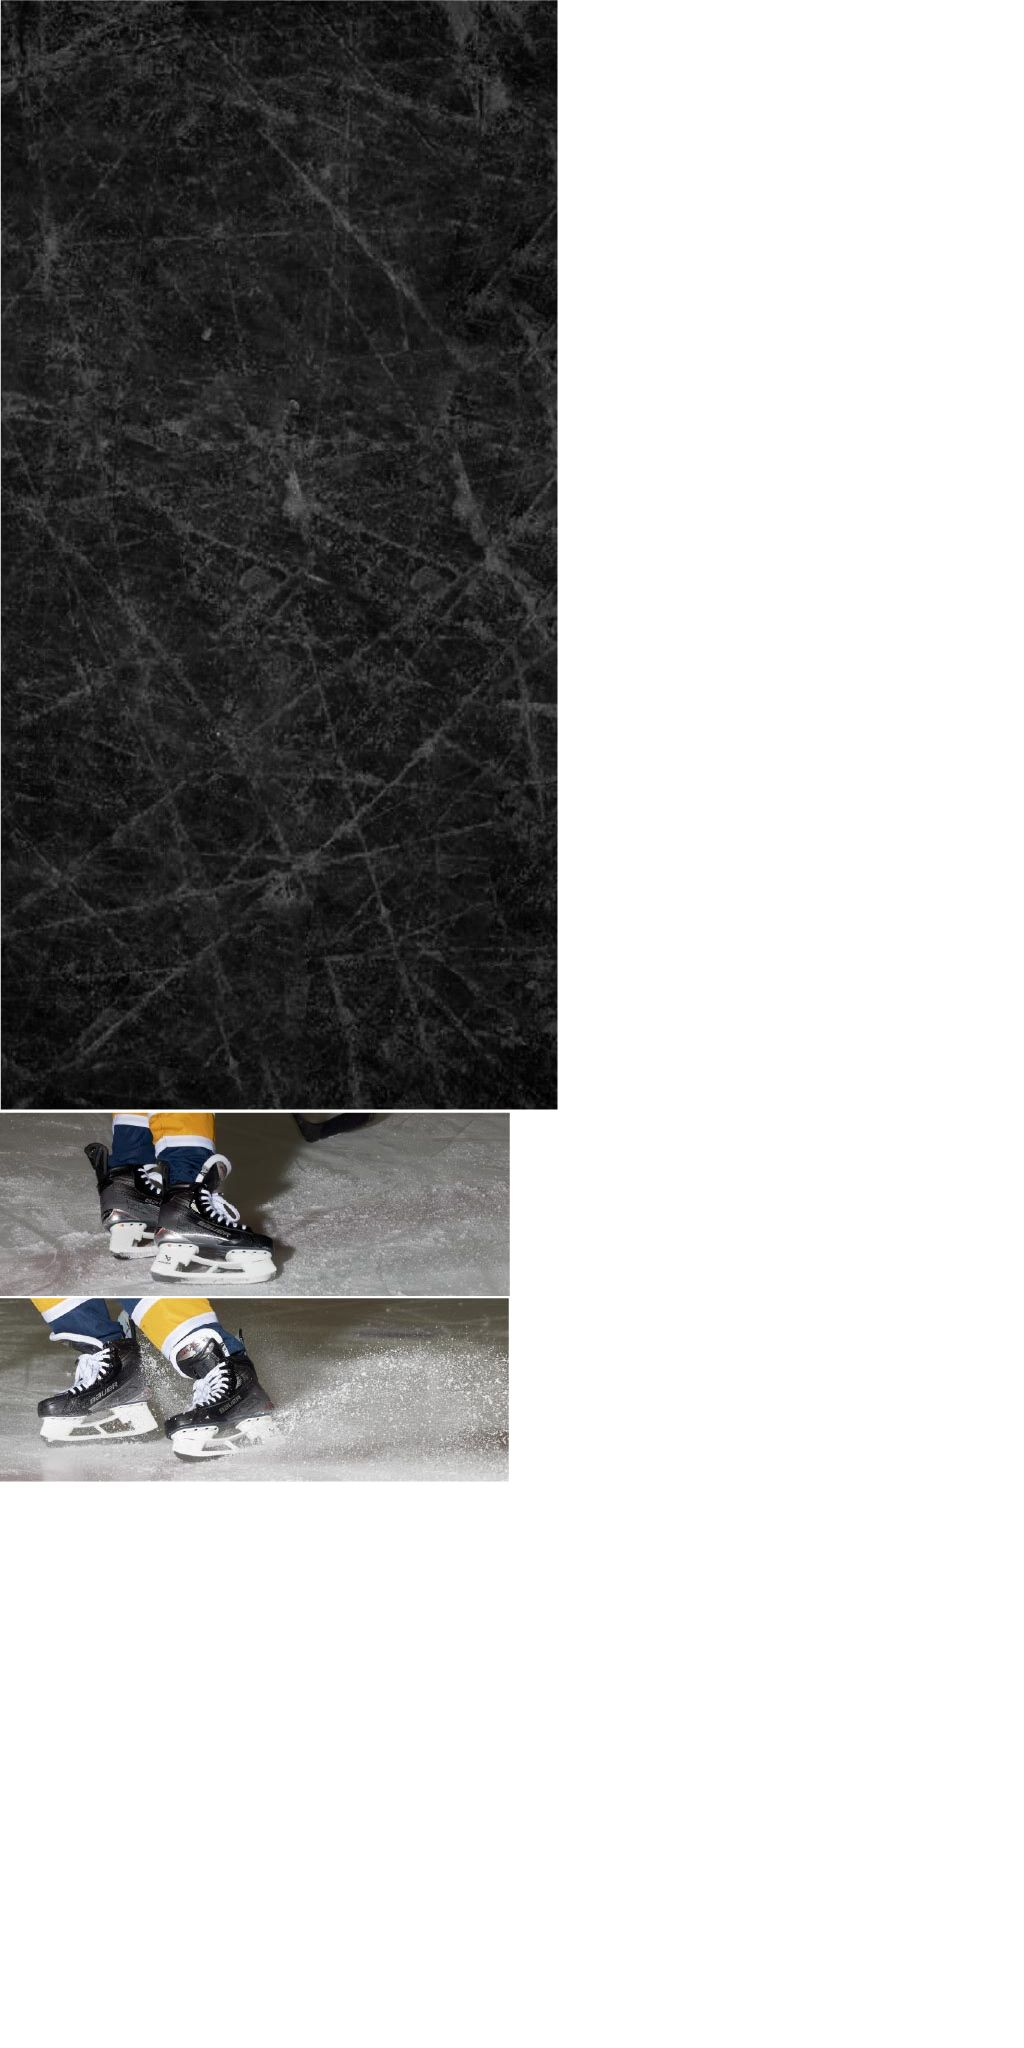
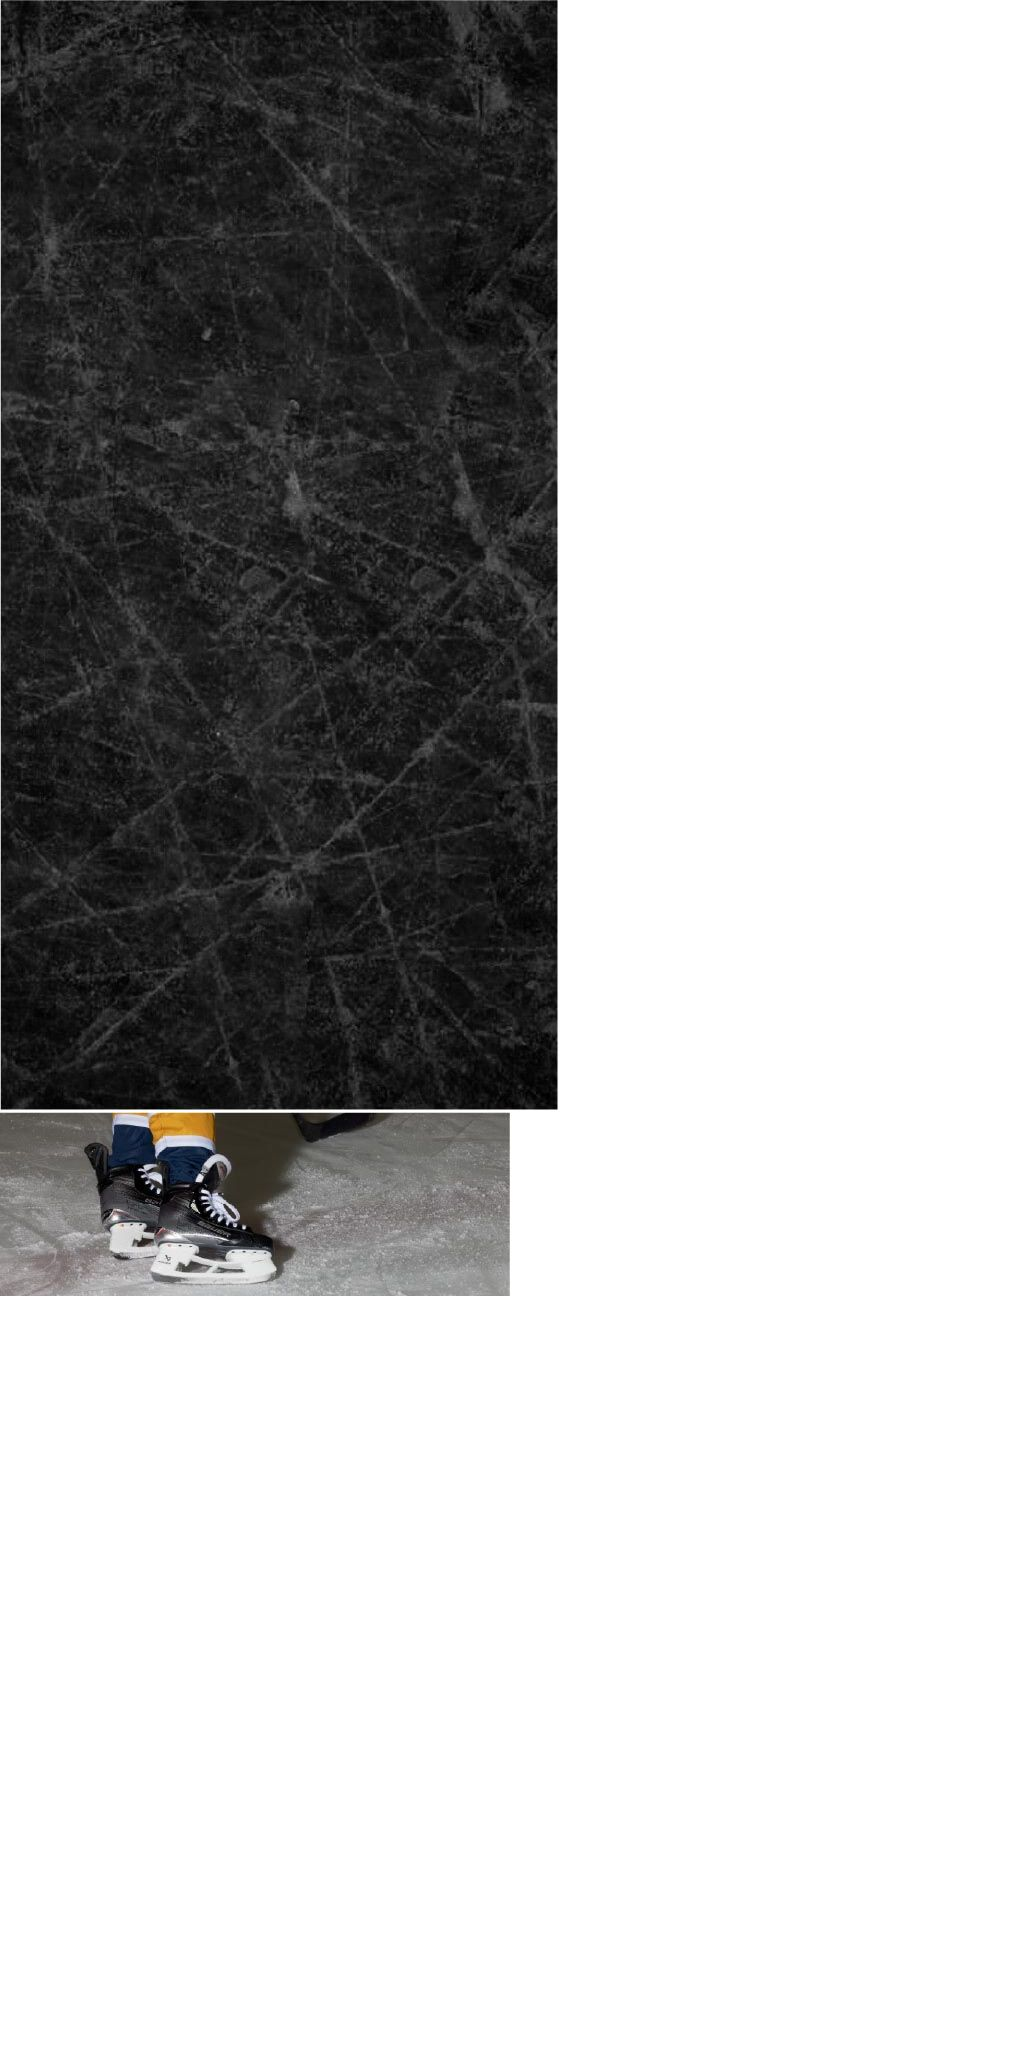
728 updates

Changed region(s): [[0.0, 0.625, 0.5, 0.75]]

diff --git a/SFS_2023/shift_728x90_us/shift_728x90_us.js b/SFS_2023/shift_728x90_us/shift_728x90_us.js
@@ -3,7 +3,7 @@
 var p; // shortcut to reference prototypes
 var lib={};var ss={};var img={};
 lib.ssMetadata = [
-		{name:"shift_728x90_us_atlas_1", frames: [[0,0,558,1110],[0,1112,510,184],[0,1298,509,184]]}
+		{name:"shift_728x90_us_atlas_1", frames: [[0,0,558,1110],[0,1112,510,184]]}
 ];
 
 
@@ -37,13 +37,6 @@ lib.ssMetadata = [
 (lib.Asset2pngcopy = function() {
 	this.initialize(ss["shift_728x90_us_atlas_1"]);
 	this.gotoAndStop(1);
-}).prototype = p = new cjs.Sprite();
-
-
-
-(lib.Asset3 = function() {
-	this.initialize(ss["shift_728x90_us_atlas_1"]);
-	this.gotoAndStop(2);
 }).prototype = p = new cjs.Sprite();
 // helper functions:
 
@@ -240,28 +233,6 @@ if (reversed == null) { reversed = false; }
 	this._renderFirstFrame();
 
 }).prototype = getMCSymbolPrototype(lib.text1, new cjs.Rectangle(-1.2,-210.3,221.39999999999998,27), null);
-
-
-(lib.skate2 = function(mode,startPosition,loop,reversed) {
-if (loop == null) { loop = true; }
-if (reversed == null) { reversed = false; }
-	var props = new Object();
-	props.mode = mode;
-	props.startPosition = startPosition;
-	props.labels = {};
-	props.loop = loop;
-	props.reversed = reversed;
-	cjs.MovieClip.apply(this,[props]);
-
-	// Layer_1
-	this.instance = new lib.Asset3();
-	this.instance.setTransform(-28,-302,0.4527,0.4527);
-
-	this.timeline.addTween(cjs.Tween.get(this.instance).wait(1));
-
-	this._renderFirstFrame();
-
-}).prototype = getMCSymbolPrototype(lib.skate2, new cjs.Rectangle(-28,-302,230.4,83.30000000000001), null);
 
 
 (lib.skate1 = function(mode,startPosition,loop,reversed) {
@@ -720,58 +691,51 @@ if (reversed == null) { reversed = false; }
 
 	this.timeline.addTween(cjs.Tween.get(this.instance_2).wait(256).to({_off:false},0).to({alpha:1},29,cjs.Ease.quartInOut).wait(58));
 
-	// skate2
-	this.instance_3 = new lib.skate2();
-	this.instance_3.setTransform(724.05,406.25,1.12,1.12,0,0,0,57,62);
+	// skate1
+	this.instance_3 = new lib.skate1();
+	this.instance_3.setTransform(613.05,401.85,1.12,1.12,0,0,0,56.1,61.5);
 	this.instance_3._off = true;
 
-	this.timeline.addTween(cjs.Tween.get(this.instance_3).wait(166).to({_off:false},0).to({x:564.4},20,cjs.Ease.quartOut).wait(57).to({x:827.15},18,cjs.Ease.quintInOut).wait(82));
-
-	// skate1
-	this.instance_4 = new lib.skate1();
-	this.instance_4.setTransform(613.05,401.85,1.12,1.12,0,0,0,56.1,61.5);
-	this.instance_4._off = true;
-
-	this.timeline.addTween(cjs.Tween.get(this.instance_4).wait(23).to({_off:false},0).to({x:350.55},25,cjs.Ease.quartOut).to({_off:true},139).wait(156));
+	this.timeline.addTween(cjs.Tween.get(this.instance_3).wait(23).to({_off:false},0).to({x:350.55},25,cjs.Ease.quartOut).wait(195).to({x:620.55},18,cjs.Ease.quintInOut).wait(82));
 
 	// Ctet2
-	this.instance_5 = new lib.Ctext2();
-	this.instance_5.setTransform(-167.9,282.9,1.12,1.12,0,0,0,74.7,24);
-	this.instance_5._off = true;
+	this.instance_4 = new lib.Ctext2();
+	this.instance_4.setTransform(-167.9,282.9,1.12,1.12,0,0,0,74.7,24);
+	this.instance_4._off = true;
 
-	this.timeline.addTween(cjs.Tween.get(this.instance_5).wait(154).to({_off:false},0).to({regX:74.8,x:106.15},22,cjs.Ease.quartOut).wait(65).to({alpha:0},17,cjs.Ease.quartInOut).to({_off:true},1).wait(84));
+	this.timeline.addTween(cjs.Tween.get(this.instance_4).wait(154).to({_off:false},0).to({regX:74.8,x:106.15},22,cjs.Ease.quartOut).wait(65).to({alpha:0},17,cjs.Ease.quartInOut).to({_off:true},1).wait(84));
 
 	// Ctext1
-	this.instance_6 = new lib.Ctext1();
-	this.instance_6.setTransform(-132.9,282.9,1.12,1.12,0,0,0,74.7,24);
-	this.instance_6._off = true;
+	this.instance_5 = new lib.Ctext1();
+	this.instance_5.setTransform(-132.9,282.9,1.12,1.12,0,0,0,74.7,24);
+	this.instance_5._off = true;
 
-	this.timeline.addTween(cjs.Tween.get(this.instance_6).wait(151).to({_off:false},0).to({regX:74.8,x:106.15},22,cjs.Ease.quartOut).wait(65).to({alpha:0},17,cjs.Ease.quartInOut).to({_off:true},1).wait(87));
+	this.timeline.addTween(cjs.Tween.get(this.instance_5).wait(151).to({_off:false},0).to({regX:74.8,x:106.15},22,cjs.Ease.quartOut).wait(65).to({alpha:0},17,cjs.Ease.quartInOut).to({_off:true},1).wait(87));
 
 	// text2
-	this.instance_7 = new lib.Tween2("synched",0);
-	this.instance_7.setTransform(-158.95,366.45,1.12,1.12);
-	this.instance_7._off = true;
+	this.instance_6 = new lib.Tween2("synched",0);
+	this.instance_6.setTransform(-158.95,366.45,1.12,1.12);
+	this.instance_6._off = true;
 
-	this.timeline.addTween(cjs.Tween.get(this.instance_7).wait(9).to({_off:false},0).to({x:123.25},21,cjs.Ease.quartOut).wait(95).to({startPosition:0},0).to({alpha:0},17,cjs.Ease.quartInOut).to({_off:true},1).wait(200));
+	this.timeline.addTween(cjs.Tween.get(this.instance_6).wait(9).to({_off:false},0).to({x:123.25},21,cjs.Ease.quartOut).wait(95).to({startPosition:0},0).to({alpha:0},17,cjs.Ease.quartInOut).to({_off:true},1).wait(200));
 
 	// text1
-	this.instance_8 = new lib.text1();
-	this.instance_8.setTransform(-206.95,282.9,1.12,1.12,0,0,0,74.8,24);
-	this.instance_8._off = true;
+	this.instance_7 = new lib.text1();
+	this.instance_7.setTransform(-206.95,282.9,1.12,1.12,0,0,0,74.8,24);
+	this.instance_7._off = true;
 
-	this.timeline.addTween(cjs.Tween.get(this.instance_8).wait(5).to({_off:false},0).to({x:106.15},21,cjs.Ease.quartOut).wait(96).to({alpha:0},17,cjs.Ease.quartInOut).to({_off:true},4).wait(200));
+	this.timeline.addTween(cjs.Tween.get(this.instance_7).wait(5).to({_off:false},0).to({x:106.15},21,cjs.Ease.quartOut).wait(96).to({alpha:0},17,cjs.Ease.quartInOut).to({_off:true},4).wait(200));
 
 	// bg
-	this.instance_9 = new lib.Asset1();
-	this.instance_9.setTransform(728,0,0.6198,0.6558,90);
+	this.instance_8 = new lib.Asset1();
+	this.instance_8.setTransform(728,0,0.6198,0.6558,90);
 
-	this.timeline.addTween(cjs.Tween.get(this.instance_9).wait(343));
+	this.timeline.addTween(cjs.Tween.get(this.instance_8).wait(343));
 
 	this._renderFirstFrame();
 
 }).prototype = p = new lib.AnMovieClip();
-p.nominalBounds = new cjs.Rectangle(71.9,43.1,918.8000000000001,302.79999999999995);
+p.nominalBounds = new cjs.Rectangle(71.9,43.1,926.3000000000001,302.79999999999995);
 // library properties:
 lib.properties = {
 	id: '758E0282264D47629A39BAD509FAEF4B',

diff --git a/SFS_2023/shift_728x90_en/shift_728x90_en.js b/SFS_2023/shift_728x90_en/shift_728x90_en.js
@@ -3,7 +3,7 @@
 var p; // shortcut to reference prototypes
 var lib={};var ss={};var img={};
 lib.ssMetadata = [
-		{name:"shift_728x90_en_atlas_1", frames: [[0,0,558,1110],[0,1112,510,184],[0,1298,509,184]]}
+		{name:"shift_728x90_en_atlas_1", frames: [[0,0,558,1110],[0,1112,510,184]]}
 ];
 
 
@@ -37,13 +37,6 @@ lib.ssMetadata = [
 (lib.Asset2pngcopy = function() {
 	this.initialize(ss["shift_728x90_en_atlas_1"]);
 	this.gotoAndStop(1);
-}).prototype = p = new cjs.Sprite();
-
-
-
-(lib.Asset3 = function() {
-	this.initialize(ss["shift_728x90_en_atlas_1"]);
-	this.gotoAndStop(2);
 }).prototype = p = new cjs.Sprite();
 // helper functions:
 
@@ -240,28 +233,6 @@ if (reversed == null) { reversed = false; }
 	this._renderFirstFrame();
 
 }).prototype = getMCSymbolPrototype(lib.text1, new cjs.Rectangle(-1.2,-210.3,221.39999999999998,27), null);
-
-
-(lib.skate2 = function(mode,startPosition,loop,reversed) {
-if (loop == null) { loop = true; }
-if (reversed == null) { reversed = false; }
-	var props = new Object();
-	props.mode = mode;
-	props.startPosition = startPosition;
-	props.labels = {};
-	props.loop = loop;
-	props.reversed = reversed;
-	cjs.MovieClip.apply(this,[props]);
-
-	// Layer_1
-	this.instance = new lib.Asset3();
-	this.instance.setTransform(-28,-302,0.4527,0.4527);
-
-	this.timeline.addTween(cjs.Tween.get(this.instance).wait(1));
-
-	this._renderFirstFrame();
-
-}).prototype = getMCSymbolPrototype(lib.skate2, new cjs.Rectangle(-28,-302,230.5,83.30000000000001), null);
 
 
 (lib.skate1 = function(mode,startPosition,loop,reversed) {
@@ -754,53 +725,46 @@ if (reversed == null) { reversed = false; }
 
 	this.timeline.addTween(cjs.Tween.get(this.instance_2).wait(256).to({_off:false},0).to({alpha:1},29,cjs.Ease.quartInOut).wait(58));
 
-	// skate2
-	this.instance_3 = new lib.skate2();
-	this.instance_3.setTransform(724.05,406.25,1.12,1.12,0,0,0,57,62);
+	// skate1
+	this.instance_3 = new lib.skate1();
+	this.instance_3.setTransform(613.05,401.85,1.12,1.12,0,0,0,56.1,61.5);
 	this.instance_3._off = true;
 
-	this.timeline.addTween(cjs.Tween.get(this.instance_3).wait(166).to({_off:false},0).to({x:564.4},20,cjs.Ease.quartOut).wait(57).to({x:827.15},18,cjs.Ease.quintInOut).wait(82));
-
-	// skate1
-	this.instance_4 = new lib.skate1();
-	this.instance_4.setTransform(613.05,401.85,1.12,1.12,0,0,0,56.1,61.5);
-	this.instance_4._off = true;
-
-	this.timeline.addTween(cjs.Tween.get(this.instance_4).wait(23).to({_off:false},0).to({x:350.55},25,cjs.Ease.quartOut).to({_off:true},139).wait(156));
+	this.timeline.addTween(cjs.Tween.get(this.instance_3).wait(23).to({_off:false},0).to({x:350.55},25,cjs.Ease.quartOut).wait(195).to({x:611.55},18,cjs.Ease.quintInOut).wait(82));
 
 	// Ctet2
-	this.instance_5 = new lib.Ctext2();
-	this.instance_5.setTransform(-167.9,282.9,1.12,1.12,0,0,0,74.7,24);
-	this.instance_5._off = true;
+	this.instance_4 = new lib.Ctext2();
+	this.instance_4.setTransform(-167.9,282.9,1.12,1.12,0,0,0,74.7,24);
+	this.instance_4._off = true;
 
-	this.timeline.addTween(cjs.Tween.get(this.instance_5).wait(154).to({_off:false},0).to({regX:74.8,x:106.15},22,cjs.Ease.quartOut).wait(65).to({alpha:0},17,cjs.Ease.quartInOut).to({_off:true},1).wait(84));
+	this.timeline.addTween(cjs.Tween.get(this.instance_4).wait(154).to({_off:false},0).to({regX:74.8,x:106.15},22,cjs.Ease.quartOut).wait(65).to({alpha:0},17,cjs.Ease.quartInOut).to({_off:true},1).wait(84));
 
 	// Ctext1
-	this.instance_6 = new lib.Ctext1();
-	this.instance_6.setTransform(-132.9,282.9,1.12,1.12,0,0,0,74.7,24);
-	this.instance_6._off = true;
+	this.instance_5 = new lib.Ctext1();
+	this.instance_5.setTransform(-132.9,282.9,1.12,1.12,0,0,0,74.7,24);
+	this.instance_5._off = true;
 
-	this.timeline.addTween(cjs.Tween.get(this.instance_6).wait(151).to({_off:false},0).to({regX:74.8,x:106.15},22,cjs.Ease.quartOut).wait(65).to({alpha:0},17,cjs.Ease.quartInOut).to({_off:true},1).wait(87));
+	this.timeline.addTween(cjs.Tween.get(this.instance_5).wait(151).to({_off:false},0).to({regX:74.8,x:106.15},22,cjs.Ease.quartOut).wait(65).to({alpha:0},17,cjs.Ease.quartInOut).to({_off:true},1).wait(87));
 
 	// text2
-	this.instance_7 = new lib.Tween2("synched",0);
-	this.instance_7.setTransform(-158.95,366.45,1.12,1.12);
-	this.instance_7._off = true;
+	this.instance_6 = new lib.Tween2("synched",0);
+	this.instance_6.setTransform(-158.95,366.45,1.12,1.12);
+	this.instance_6._off = true;
 
-	this.timeline.addTween(cjs.Tween.get(this.instance_7).wait(9).to({_off:false},0).to({x:123.25},21,cjs.Ease.quartOut).wait(95).to({startPosition:0},0).to({alpha:0},17,cjs.Ease.quartInOut).to({_off:true},1).wait(200));
+	this.timeline.addTween(cjs.Tween.get(this.instance_6).wait(9).to({_off:false},0).to({x:123.25},21,cjs.Ease.quartOut).wait(95).to({startPosition:0},0).to({alpha:0},17,cjs.Ease.quartInOut).to({_off:true},1).wait(200));
 
 	// text1
-	this.instance_8 = new lib.text1();
-	this.instance_8.setTransform(-206.95,282.9,1.12,1.12,0,0,0,74.8,24);
-	this.instance_8._off = true;
+	this.instance_7 = new lib.text1();
+	this.instance_7.setTransform(-206.95,282.9,1.12,1.12,0,0,0,74.8,24);
+	this.instance_7._off = true;
 
-	this.timeline.addTween(cjs.Tween.get(this.instance_8).wait(5).to({_off:false},0).to({x:106.15},21,cjs.Ease.quartOut).wait(96).to({alpha:0},17,cjs.Ease.quartInOut).to({_off:true},4).wait(200));
+	this.timeline.addTween(cjs.Tween.get(this.instance_7).wait(5).to({_off:false},0).to({x:106.15},21,cjs.Ease.quartOut).wait(96).to({alpha:0},17,cjs.Ease.quartInOut).to({_off:true},4).wait(200));
 
 	// bg
-	this.instance_9 = new lib.Asset1();
-	this.instance_9.setTransform(728,0,0.6198,0.6558,90);
+	this.instance_8 = new lib.Asset1();
+	this.instance_8.setTransform(728,0,0.6198,0.6558,90);
 
-	this.timeline.addTween(cjs.Tween.get(this.instance_9).wait(343));
+	this.timeline.addTween(cjs.Tween.get(this.instance_8).wait(343));
 
 	this._renderFirstFrame();
 
